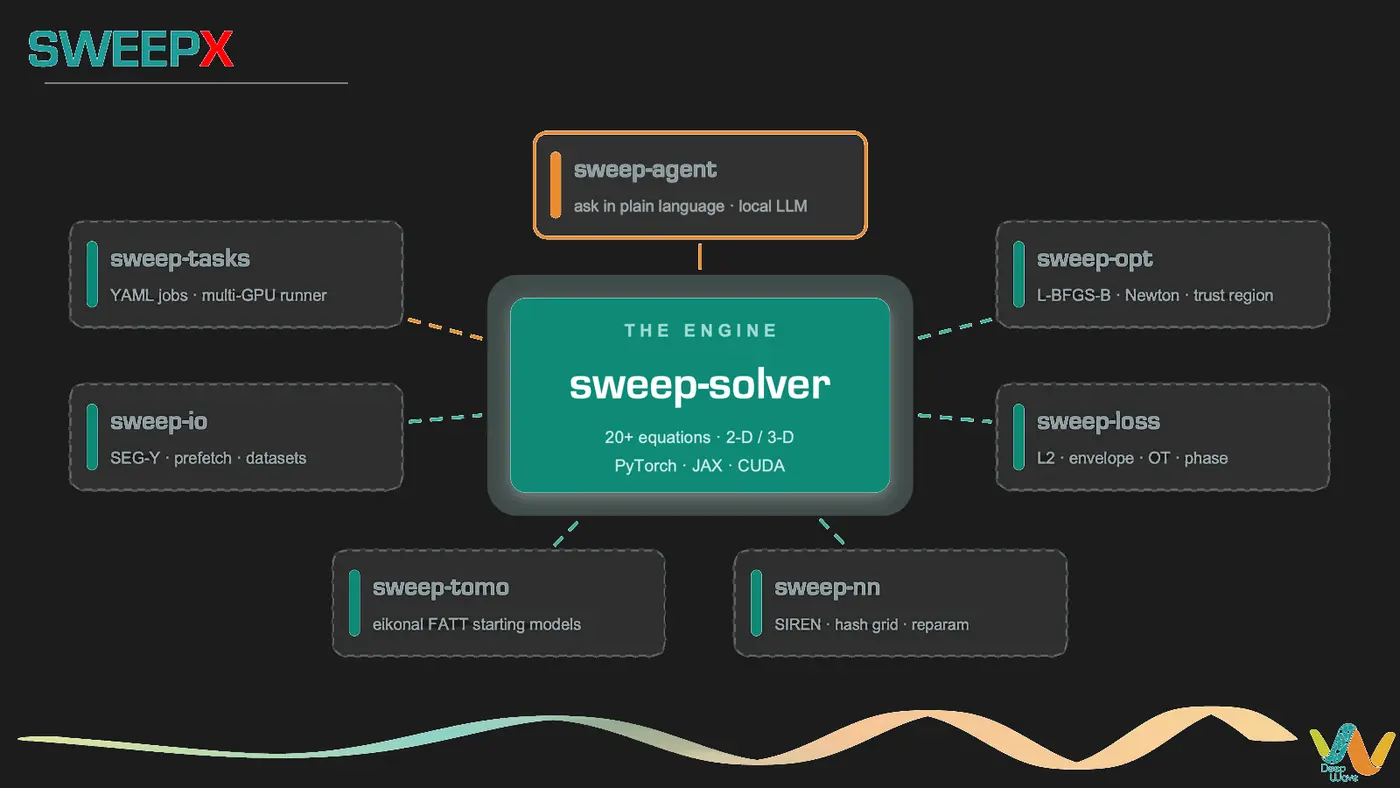
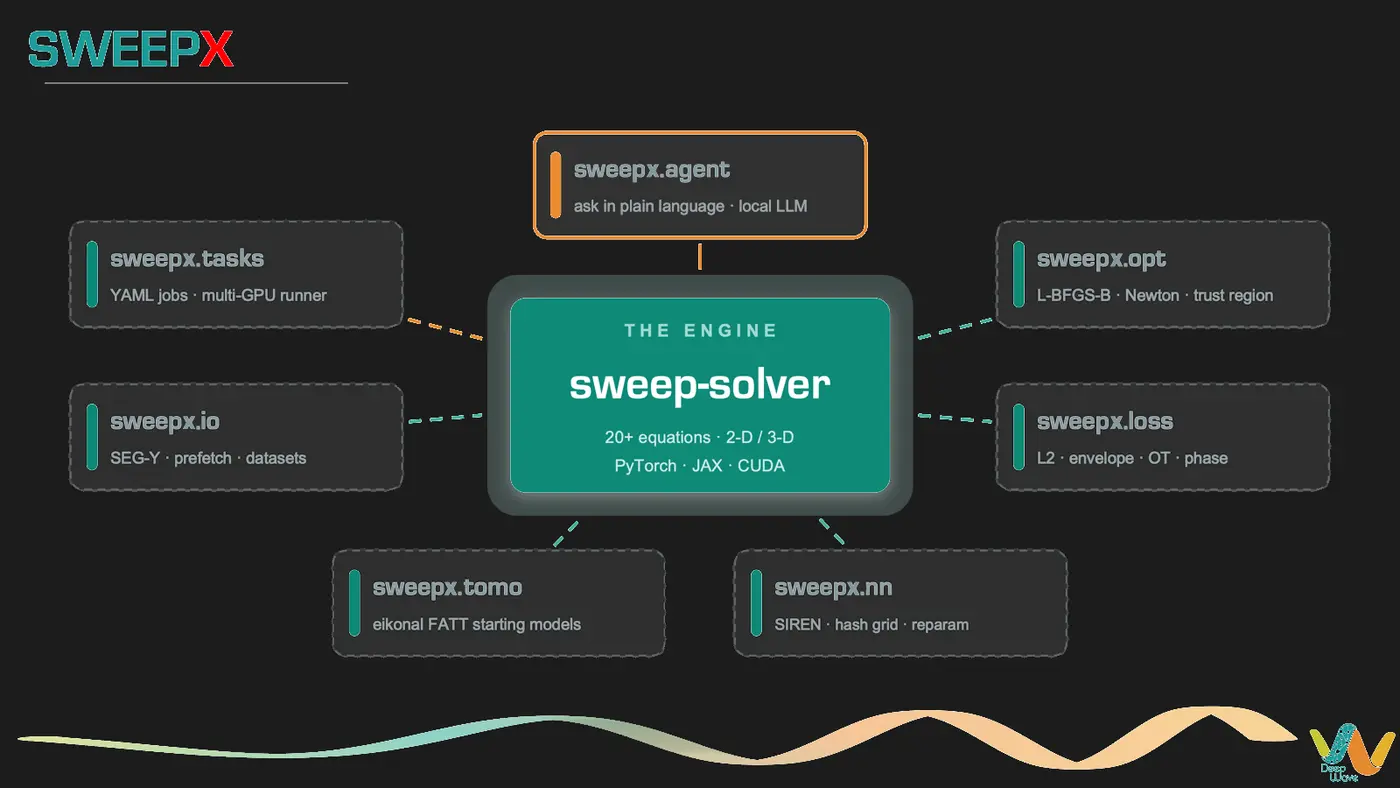
Deploying to gh-pages from @ GeophyAI/homepage@6cfdc5b65861595a4b841daa30e8b2ed8e82db26 🚀

diff --git a/research/index.html b/research/index.html
@@ -14,7 +14,7 @@
     initTheme();
   </script> </head> <body class="fixed-top-nav "> <header><style>
     .navbar-logo { height: 42px; width: auto; margin-right: 0.6rem; }
-  </style> <nav id="navbar" class="navbar navbar-light navbar-expand-sm fixed-top" role="navigation"> <div class="container"> <a class="navbar-brand title font-weight-lighter d-flex align-items-center" href="/"> <img src="/assets/img/sweep-logo-nav.svg" class="navbar-logo" alt="SWEEP"> <span> <span class="font-weight-bold">Shaowen</span> Wang </span> </a> <button class="navbar-toggler collapsed navbar-toggler-main" type="button" data-nav-toggle="navbarNav" aria-controls="navbarNav" aria-expanded="false" aria-label="Toggle navigation"> <span class="sr-only">Toggle navigation</span> <span class="icon-bar top-bar"></span> <span class="icon-bar middle-bar"></span> <span class="icon-bar bottom-bar"></span> </button> <div class="collapse navbar-collapse navbar-collapse-main" id="navbarNav"> <ul class="navbar-nav navbar-menu-list flex-nowrap"> <li class="nav-item "> <a class="nav-link" href="/">about </a> </li> <li class="nav-item active"> <a class="nav-link" href="/research/">research <span class="sr-only">(current)</span> </a> </li> <li class="nav-item "> <a class="nav-link" href="/publications/">publications </a> </li> <li class="nav-item "> <a class="nav-link" href="/cv/">cv </a> </li> <li class="nav-item "> <a class="nav-link" href="/gallery/">gallery </a> </li> <li class="nav-item"> <a class="nav-link" href="/zh/research/" hreflang="zh-CN" lang="zh-CN" onclick="try{localStorage.setItem('site-lang','zh')}catch(e){}">中文</a> </li> <li class="nav-item"> <button id="search-toggle" type="button" title="Search" aria-label="Open search"> <span class="nav-link">ctrl k <i class="fa-solid fa-magnifying-glass"></i></span> </button> </li> <li class="toggle-container"> <button id="light-toggle" type="button" title="Change theme" aria-label="Change color theme"> <i class="fa-half-sun-moon" id="light-toggle-system"></i> <i class="fa-solid fa-moon" id="light-toggle-dark"></i> <i class="fa-solid fa-sun" id="light-toggle-light"></i> </button> </li> </ul> </div> </div> </nav> <progress id="progress" value="0"> <div class="progress-container"> <span class="progress-bar"></span> </div> </progress> </header> <div class="container mt-5" role="main"> <div class="post"> <header class="post-header"> <h1 class="post-title">research</h1> <p class="post-description">Two directions I am working on right now.</p> </header> <article> <h3 id="implicit-full-waveform-inversion-imaging">Implicit full-waveform inversion imaging</h3> <div class="research-fig"> <figure> <picture> <source class="responsive-img-srcset" srcset="/assets/img/research/ifwim_field-480.webp 480w,/assets/img/research/ifwim_field-800.webp 800w,/assets/img/research/ifwim_field-1400.webp 1400w," type="image/webp" sizes="95vw"></source> <img src="/assets/img/research/ifwim_field.png" class="img-fluid rounded z-depth-1" width="100%" height="auto" alt="IFWIM field-data results: velocity and reflectivity" data-zoomable="" loading="eager" onerror="this.onerror=null; document.querySelectorAll('.responsive-img-srcset').forEach(function (n) { n.remove(); });"> </picture> <figcaption class="caption">Field-data example: inverted velocity (top) and the reflectivity components R<sub>z</sub> and R<sub>x</sub> (middle, bottom). Click to enlarge.</figcaption> </figure> </div> <p>Subsurface images are usually obtained in two steps: full-waveform inversion (FWI) for the velocity, then least-squares reverse time migration for the reflectivity. Implicit FWI imaging (IFWIM) represents the velocity and impedance models with the weights of a neural network and inverts them jointly with the vector-reflectivity acoustic wave equation; the reflectivity components then follow from the inverted impedance. Because the models are continuous functions, they can be resampled at any resolution, even on irregular grids.</p> <p><a href="https://doi.org/10.1093/gji/ggag277" rel="external nofollow noopener" target="_blank">Paper (GJI 2026)</a> · <a href="https://github.com/DeepWave-KAUST/ifwi-pub" rel="external nofollow noopener" target="_blank">Code</a></p> <h3 id="sweep-differentiable-wave-physics">SWEEP: differentiable wave physics</h3> <div class="sweepx-map"> <img src="/assets/img/research/sweepx_ecosystem.png" class="only-light rounded z-depth-1" alt="SWEEPX ecosystem: the sweep-solver engine and the packages built around it" loading="lazy"> <img src="/assets/img/research/sweepx_ecosystem_dark.png" class="only-dark rounded z-depth-1" alt="SWEEPX ecosystem: the sweep-solver engine and the packages built around it" loading="lazy"> <a class="sweepx-hit" href="https://sweepx.deepwave.group/" target="_blank" rel="noopener noreferrer" title="SWEEPX" aria-label="SWEEPX" style="left: 2.06%; top: 3.89%; width: 14.56%; height: 4.44%;"></a> <a class="sweepx-hit sweepx-dark" href="https://github.com/DeepWave-KAUST/sweep" target="_blank" rel="noopener noreferrer" title="sweep-solver" aria-label="sweep-solver" style="left: 36.5%; top: 37.89%; width: 27.0%; height: 24.44%;"><i class="fa-solid fa-arrow-up-right-from-square"></i></a> <a class="sweepx-hit" href="https://github.com/DeepWave-KAUST/sweep-agent" target="_blank" rel="noopener noreferrer" title="sweep-agent" aria-label="sweep-agent" style="left: 38.06%; top: 16.67%; width: 23.81%; height: 13.56%;"><i class="fa-solid fa-arrow-up-right-from-square"></i></a> </div> <style>
+  </style> <nav id="navbar" class="navbar navbar-light navbar-expand-sm fixed-top" role="navigation"> <div class="container"> <a class="navbar-brand title font-weight-lighter d-flex align-items-center" href="/"> <img src="/assets/img/sweep-logo-nav.svg" class="navbar-logo" alt="SWEEP"> <span> <span class="font-weight-bold">Shaowen</span> Wang </span> </a> <button class="navbar-toggler collapsed navbar-toggler-main" type="button" data-nav-toggle="navbarNav" aria-controls="navbarNav" aria-expanded="false" aria-label="Toggle navigation"> <span class="sr-only">Toggle navigation</span> <span class="icon-bar top-bar"></span> <span class="icon-bar middle-bar"></span> <span class="icon-bar bottom-bar"></span> </button> <div class="collapse navbar-collapse navbar-collapse-main" id="navbarNav"> <ul class="navbar-nav navbar-menu-list flex-nowrap"> <li class="nav-item "> <a class="nav-link" href="/">about </a> </li> <li class="nav-item active"> <a class="nav-link" href="/research/">research <span class="sr-only">(current)</span> </a> </li> <li class="nav-item "> <a class="nav-link" href="/publications/">publications </a> </li> <li class="nav-item "> <a class="nav-link" href="/cv/">cv </a> </li> <li class="nav-item "> <a class="nav-link" href="/gallery/">gallery </a> </li> <li class="nav-item"> <a class="nav-link" href="/zh/research/" hreflang="zh-CN" lang="zh-CN" onclick="try{localStorage.setItem('site-lang','zh')}catch(e){}">中文</a> </li> <li class="nav-item"> <button id="search-toggle" type="button" title="Search" aria-label="Open search"> <span class="nav-link">ctrl k <i class="fa-solid fa-magnifying-glass"></i></span> </button> </li> <li class="toggle-container"> <button id="light-toggle" type="button" title="Change theme" aria-label="Change color theme"> <i class="fa-half-sun-moon" id="light-toggle-system"></i> <i class="fa-solid fa-moon" id="light-toggle-dark"></i> <i class="fa-solid fa-sun" id="light-toggle-light"></i> </button> </li> </ul> </div> </div> </nav> <progress id="progress" value="0"> <div class="progress-container"> <span class="progress-bar"></span> </div> </progress> </header> <div class="container mt-5" role="main"> <div class="post"> <header class="post-header"> <h1 class="post-title">research</h1> <p class="post-description">Two directions I am working on right now.</p> </header> <article> <h3 id="implicit-full-waveform-inversion-imaging">Implicit full-waveform inversion imaging</h3> <div class="research-fig"> <figure> <picture> <source class="responsive-img-srcset" srcset="/assets/img/research/ifwim_field-480.webp 480w,/assets/img/research/ifwim_field-800.webp 800w,/assets/img/research/ifwim_field-1400.webp 1400w," type="image/webp" sizes="95vw"></source> <img src="/assets/img/research/ifwim_field.png" class="img-fluid rounded z-depth-1" width="100%" height="auto" alt="IFWIM field-data results: velocity and reflectivity" data-zoomable="" loading="eager" onerror="this.onerror=null; document.querySelectorAll('.responsive-img-srcset').forEach(function (n) { n.remove(); });"> </picture> <figcaption class="caption">Field-data example: inverted velocity (top) and the reflectivity components R<sub>z</sub> and R<sub>x</sub> (middle, bottom). Click to enlarge.</figcaption> </figure> </div> <p>Subsurface images are usually obtained in two steps: full-waveform inversion (FWI) for the velocity, then least-squares reverse time migration for the reflectivity. Implicit FWI imaging (IFWIM) represents the velocity and impedance models with the weights of a neural network and inverts them jointly with the vector-reflectivity acoustic wave equation; the reflectivity components then follow from the inverted impedance. Because the models are continuous functions, they can be resampled at any resolution, even on irregular grids.</p> <p><a href="https://doi.org/10.1093/gji/ggag277" rel="external nofollow noopener" target="_blank">Paper (GJI 2026)</a> · <a href="https://github.com/DeepWave-KAUST/ifwi-pub" rel="external nofollow noopener" target="_blank">Code</a></p> <h3 id="sweep-differentiable-wave-physics">SWEEP: differentiable wave physics</h3> <div class="sweepx-map"> <img src="/assets/img/research/sweepx_ecosystem.png" class="only-light rounded z-depth-1" alt="SWEEPX ecosystem: the sweep-solver engine and the packages built around it" loading="lazy"> <img src="/assets/img/research/sweepx_ecosystem_dark.png" class="only-dark rounded z-depth-1" alt="SWEEPX ecosystem: the sweep-solver engine and the packages built around it" loading="lazy"> <a class="sweepx-hit" href="https://sweepx.deepwave.group/" target="_blank" rel="noopener noreferrer" title="SWEEPX" aria-label="SWEEPX" style="left: 2.06%; top: 3.89%; width: 14.56%; height: 4.44%;"></a> <a class="sweepx-hit sweepx-dark" href="https://github.com/DeepWave-KAUST/sweep" target="_blank" rel="noopener noreferrer" title="sweep-solver" aria-label="sweep-solver" style="left: 36.5%; top: 37.89%; width: 27.0%; height: 24.44%;"><i class="fa-solid fa-arrow-up-right-from-square"></i></a> <a class="sweepx-hit" href="https://sweepx.deepwave.group/agent/" target="_blank" rel="noopener noreferrer" title="sweepx.agent" aria-label="sweepx.agent" style="left: 38.06%; top: 16.67%; width: 23.81%; height: 13.56%;"><i class="fa-solid fa-arrow-up-right-from-square"></i></a> <a class="sweepx-hit" href="https://sweepx.deepwave.group/tasks/" target="_blank" rel="noopener noreferrer" title="sweepx.tasks" aria-label="sweepx.tasks" style="left: 5.06%; top: 27.56%; width: 23.62%; height: 13.78%;"><i class="fa-solid fa-arrow-up-right-from-square"></i></a> <a class="sweepx-hit" href="https://sweepx.deepwave.group/io/" target="_blank" rel="noopener noreferrer" title="sweepx.io" aria-label="sweepx.io" style="left: 5.06%; top: 48.11%; width: 23.62%; height: 13.89%;"><i class="fa-solid fa-arrow-up-right-from-square"></i></a> <a class="sweepx-hit" href="https://sweepx.deepwave.group/opt/" target="_blank" rel="noopener noreferrer" title="sweepx.opt" aria-label="sweepx.opt" style="left: 71.25%; top: 27.56%; width: 23.62%; height: 13.78%;"><i class="fa-solid fa-arrow-up-right-from-square"></i></a> <a class="sweepx-hit" href="https://sweepx.deepwave.group/loss/" target="_blank" rel="noopener noreferrer" title="sweepx.loss" aria-label="sweepx.loss" style="left: 71.25%; top: 48.11%; width: 23.62%; height: 13.89%;"><i class="fa-solid fa-arrow-up-right-from-square"></i></a> <a class="sweepx-hit" href="https://sweepx.deepwave.group/nn/" target="_blank" rel="noopener noreferrer" title="sweepx.nn" aria-label="sweepx.nn" style="left: 52.5%; top: 69.22%; width: 23.62%; height: 13.89%;"><i class="fa-solid fa-arrow-up-right-from-square"></i></a> </div> <style>
   .sweepx-map { position: relative; margin: 0.5rem 0 1rem; }
   .sweepx-map img { width: 100%; height: auto; }   /* display comes from al-folio's .only-light / .only-dark */
   .sweepx-hit { position: absolute; border-radius: 0.6vw; transition: box-shadow 0.15s, background-color 0.15s; }
@@ -22,7 +22,7 @@
   .sweepx-hit i { position: absolute; top: 8%; right: 2.5%; font-size: clamp(8px, 1.1vw, 13px); color: #0e8a78; opacity: 0.75; }
   .sweepx-hit.sweepx-dark i { color: #fff; }
   .sweepx-hit:hover i, .sweepx-hit:focus i { opacity: 1; }
-</style> <p class="caption">Components marked <i class="fa-solid fa-arrow-up-right-from-square"></i> open their repositories.</p> <p>SWEEP (Seismic Wave Equation Exploration Platform) is a unified solver framework for differentiable wave physics. Its engine, sweep-solver, covers more than 20 wave equations in 2-D and 3-D with PyTorch, JAX and CUDA backends. Around it, the SWEEPX ecosystem adds packages for multi-GPU job running, seismic I/O, optimization, misfit functions, tomography starting models and neural reparameterization, plus an agent you can ask in plain language.</p> <p><a href="https://sweepx.deepwave.group/" rel="external nofollow noopener" target="_blank">Documentation</a> · <a href="https://arxiv.org/abs/2604.14189" rel="external nofollow noopener" target="_blank">Preprint</a> · <code class="language-plaintext highlighter-rouge">pip install sweepx</code></p> <style>
+</style> <p class="caption">Components marked <i class="fa-solid fa-arrow-up-right-from-square"></i> open their documentation or code.</p> <p>SWEEP (Seismic Wave Equation Exploration Platform) is a unified solver framework for differentiable wave physics. Its engine, sweep-solver, covers more than 20 wave equations in 2-D and 3-D with PyTorch, JAX and CUDA backends. Around it, the SWEEPX ecosystem adds packages for multi-GPU job running, seismic I/O, optimization, misfit functions, tomography starting models and neural reparameterization, plus an agent you can ask in plain language.</p> <p><a href="https://sweepx.deepwave.group/" rel="external nofollow noopener" target="_blank">Documentation</a> · <a href="https://arxiv.org/abs/2604.14189" rel="external nofollow noopener" target="_blank">Preprint</a> · <code class="language-plaintext highlighter-rouge">pip install sweepx</code></p> <style>
   .research-fig { max-width: 520px; margin: 0 auto; }
 </style> </article> </div> </div> <footer class="fixed-bottom" role="contentinfo"> <div class="container mt-0"> © Copyright 2026 Shaowen Wang. Powered by <a href="https://jekyllrb.com/" target="_blank" rel="external nofollow noopener">Jekyll</a> with <a href="https://github.com/alshedivat/al-folio" rel="external nofollow noopener" target="_blank">al-folio</a> theme. Hosted by <a href="https://pages.github.com/" target="_blank" rel="external nofollow noopener">GitHub Pages</a>. </div> </footer> <script>
   window.alFolio = {

diff --git a/zh/research/index.html b/zh/research/index.html
@@ -6,7 +6,7 @@
     initTheme();
   </script> </head> <body class="fixed-top-nav "> <header><style>
     .navbar-logo { height: 42px; width: auto; margin-right: 0.6rem; }
-  </style> <nav id="navbar" class="navbar navbar-light navbar-expand-sm fixed-top" role="navigation"> <div class="container"> <a class="navbar-brand title font-weight-lighter d-flex align-items-center" href="/zh/"> <img src="/assets/img/sweep-logo-nav.svg" class="navbar-logo" alt="SWEEP"> <span> <span class="font-weight-bold">王绍文</span> </span> </a> <button class="navbar-toggler collapsed navbar-toggler-main" type="button" data-nav-toggle="navbarNav" aria-controls="navbarNav" aria-expanded="false" aria-label="Toggle navigation"> <span class="sr-only">Toggle navigation</span> <span class="icon-bar top-bar"></span> <span class="icon-bar middle-bar"></span> <span class="icon-bar bottom-bar"></span> </button> <div class="collapse navbar-collapse navbar-collapse-main" id="navbarNav"> <ul class="navbar-nav navbar-menu-list flex-nowrap"> <li class="nav-item "> <a class="nav-link" href="/zh/">首页 </a> </li> <li class="nav-item active"> <a class="nav-link" href="/zh/research/">研究 <span class="sr-only">(current)</span> </a> </li> <li class="nav-item "> <a class="nav-link" href="/zh/publications/">论文 </a> </li> <li class="nav-item "> <a class="nav-link" href="/zh/cv/">简历 </a> </li> <li class="nav-item "> <a class="nav-link" href="/zh/gallery/">照片 </a> </li> <li class="nav-item"> <a class="nav-link" href="/research/" hreflang="en" lang="en" onclick="try{localStorage.setItem('site-lang','en')}catch(e){}">EN</a> </li> <li class="nav-item"> <button id="search-toggle" type="button" title="Search" aria-label="Open search"> <span class="nav-link">ctrl k <i class="fa-solid fa-magnifying-glass"></i></span> </button> </li> <li class="toggle-container"> <button id="light-toggle" type="button" title="Change theme" aria-label="Change color theme"> <i class="fa-half-sun-moon" id="light-toggle-system"></i> <i class="fa-solid fa-moon" id="light-toggle-dark"></i> <i class="fa-solid fa-sun" id="light-toggle-light"></i> </button> </li> </ul> </div> </div> </nav> <progress id="progress" value="0"> <div class="progress-container"> <span class="progress-bar"></span> </div> </progress> </header> <div class="container mt-5" role="main"> <div class="post"> <header class="post-header"> <h1 class="post-title">研究</h1> <p class="post-description">目前在做的两个方向。</p> </header> <article> <h3 id="隐式全波形反演成像">隐式全波形反演成像</h3> <div class="research-fig"> <figure> <picture> <source class="responsive-img-srcset" srcset="/assets/img/research/ifwim_field-480.webp 480w,/assets/img/research/ifwim_field-800.webp 800w,/assets/img/research/ifwim_field-1400.webp 1400w," type="image/webp" sizes="95vw"></source> <img src="/assets/img/research/ifwim_field.png" class="img-fluid rounded z-depth-1" width="100%" height="auto" alt="IFWIM 实际数据结果：速度与反射系数" data-zoomable="" loading="eager" onerror="this.onerror=null; document.querySelectorAll('.responsive-img-srcset').forEach(function (n) { n.remove(); });"> </picture> <figcaption class="caption">实际数据结果：反演得到的速度（上），以及反射系数分量 R<sub>z</sub>、R<sub>x</sub>（中、下）。点击图片可以放大。</figcaption> </figure> </div> <p>常规做法分两步：先用全波形反演（FWI）求速度，再用最小二乘逆时偏移求反射系数。隐式 FWI 成像（IFWIM）把速度和阻抗模型都用神经网络的权重来表示，结合矢量反射系数声波方程一起反演，反射系数再由反演出来的阻抗算出来。因为模型是连续函数，所以可以按任意分辨率重采样，不规则网格也能用。</p> <p><a href="https://doi.org/10.1093/gji/ggag277" rel="external nofollow noopener" target="_blank">论文（GJI 2026）</a> · <a href="https://github.com/DeepWave-KAUST/ifwi-pub" rel="external nofollow noopener" target="_blank">代码</a></p> <h3 id="sweep可微分的波动物理">SWEEP：可微分的波动物理</h3> <div class="sweepx-map"> <img src="/assets/img/research/sweepx_ecosystem.png" class="only-light rounded z-depth-1" alt="SWEEPX 生态：核心引擎 sweep-solver 及其周边的各个包" loading="lazy"> <img src="/assets/img/research/sweepx_ecosystem_dark.png" class="only-dark rounded z-depth-1" alt="SWEEPX 生态：核心引擎 sweep-solver 及其周边的各个包" loading="lazy"> <a class="sweepx-hit" href="https://sweepx.deepwave.group/" target="_blank" rel="noopener noreferrer" title="SWEEPX" aria-label="SWEEPX" style="left: 2.06%; top: 3.89%; width: 14.56%; height: 4.44%;"></a> <a class="sweepx-hit sweepx-dark" href="https://github.com/DeepWave-KAUST/sweep" target="_blank" rel="noopener noreferrer" title="sweep-solver" aria-label="sweep-solver" style="left: 36.5%; top: 37.89%; width: 27.0%; height: 24.44%;"><i class="fa-solid fa-arrow-up-right-from-square"></i></a> <a class="sweepx-hit" href="https://github.com/DeepWave-KAUST/sweep-agent" target="_blank" rel="noopener noreferrer" title="sweep-agent" aria-label="sweep-agent" style="left: 38.06%; top: 16.67%; width: 23.81%; height: 13.56%;"><i class="fa-solid fa-arrow-up-right-from-square"></i></a> </div> <style>
+  </style> <nav id="navbar" class="navbar navbar-light navbar-expand-sm fixed-top" role="navigation"> <div class="container"> <a class="navbar-brand title font-weight-lighter d-flex align-items-center" href="/zh/"> <img src="/assets/img/sweep-logo-nav.svg" class="navbar-logo" alt="SWEEP"> <span> <span class="font-weight-bold">王绍文</span> </span> </a> <button class="navbar-toggler collapsed navbar-toggler-main" type="button" data-nav-toggle="navbarNav" aria-controls="navbarNav" aria-expanded="false" aria-label="Toggle navigation"> <span class="sr-only">Toggle navigation</span> <span class="icon-bar top-bar"></span> <span class="icon-bar middle-bar"></span> <span class="icon-bar bottom-bar"></span> </button> <div class="collapse navbar-collapse navbar-collapse-main" id="navbarNav"> <ul class="navbar-nav navbar-menu-list flex-nowrap"> <li class="nav-item "> <a class="nav-link" href="/zh/">首页 </a> </li> <li class="nav-item active"> <a class="nav-link" href="/zh/research/">研究 <span class="sr-only">(current)</span> </a> </li> <li class="nav-item "> <a class="nav-link" href="/zh/publications/">论文 </a> </li> <li class="nav-item "> <a class="nav-link" href="/zh/cv/">简历 </a> </li> <li class="nav-item "> <a class="nav-link" href="/zh/gallery/">照片 </a> </li> <li class="nav-item"> <a class="nav-link" href="/research/" hreflang="en" lang="en" onclick="try{localStorage.setItem('site-lang','en')}catch(e){}">EN</a> </li> <li class="nav-item"> <button id="search-toggle" type="button" title="Search" aria-label="Open search"> <span class="nav-link">ctrl k <i class="fa-solid fa-magnifying-glass"></i></span> </button> </li> <li class="toggle-container"> <button id="light-toggle" type="button" title="Change theme" aria-label="Change color theme"> <i class="fa-half-sun-moon" id="light-toggle-system"></i> <i class="fa-solid fa-moon" id="light-toggle-dark"></i> <i class="fa-solid fa-sun" id="light-toggle-light"></i> </button> </li> </ul> </div> </div> </nav> <progress id="progress" value="0"> <div class="progress-container"> <span class="progress-bar"></span> </div> </progress> </header> <div class="container mt-5" role="main"> <div class="post"> <header class="post-header"> <h1 class="post-title">研究</h1> <p class="post-description">目前在做的两个方向。</p> </header> <article> <h3 id="隐式全波形反演成像">隐式全波形反演成像</h3> <div class="research-fig"> <figure> <picture> <source class="responsive-img-srcset" srcset="/assets/img/research/ifwim_field-480.webp 480w,/assets/img/research/ifwim_field-800.webp 800w,/assets/img/research/ifwim_field-1400.webp 1400w," type="image/webp" sizes="95vw"></source> <img src="/assets/img/research/ifwim_field.png" class="img-fluid rounded z-depth-1" width="100%" height="auto" alt="IFWIM 实际数据结果：速度与反射系数" data-zoomable="" loading="eager" onerror="this.onerror=null; document.querySelectorAll('.responsive-img-srcset').forEach(function (n) { n.remove(); });"> </picture> <figcaption class="caption">实际数据结果：反演得到的速度（上），以及反射系数分量 R<sub>z</sub>、R<sub>x</sub>（中、下）。点击图片可以放大。</figcaption> </figure> </div> <p>常规做法分两步：先用全波形反演（FWI）求速度，再用最小二乘逆时偏移求反射系数。隐式 FWI 成像（IFWIM）把速度和阻抗模型都用神经网络的权重来表示，结合矢量反射系数声波方程一起反演，反射系数再由反演出来的阻抗算出来。因为模型是连续函数，所以可以按任意分辨率重采样，不规则网格也能用。</p> <p><a href="https://doi.org/10.1093/gji/ggag277" rel="external nofollow noopener" target="_blank">论文（GJI 2026）</a> · <a href="https://github.com/DeepWave-KAUST/ifwi-pub" rel="external nofollow noopener" target="_blank">代码</a></p> <h3 id="sweep可微分的波动物理">SWEEP：可微分的波动物理</h3> <div class="sweepx-map"> <img src="/assets/img/research/sweepx_ecosystem.png" class="only-light rounded z-depth-1" alt="SWEEPX 生态：核心引擎 sweep-solver 及其周边的各个包" loading="lazy"> <img src="/assets/img/research/sweepx_ecosystem_dark.png" class="only-dark rounded z-depth-1" alt="SWEEPX 生态：核心引擎 sweep-solver 及其周边的各个包" loading="lazy"> <a class="sweepx-hit" href="https://sweepx.deepwave.group/" target="_blank" rel="noopener noreferrer" title="SWEEPX" aria-label="SWEEPX" style="left: 2.06%; top: 3.89%; width: 14.56%; height: 4.44%;"></a> <a class="sweepx-hit sweepx-dark" href="https://github.com/DeepWave-KAUST/sweep" target="_blank" rel="noopener noreferrer" title="sweep-solver" aria-label="sweep-solver" style="left: 36.5%; top: 37.89%; width: 27.0%; height: 24.44%;"><i class="fa-solid fa-arrow-up-right-from-square"></i></a> <a class="sweepx-hit" href="https://sweepx.deepwave.group/agent/" target="_blank" rel="noopener noreferrer" title="sweepx.agent" aria-label="sweepx.agent" style="left: 38.06%; top: 16.67%; width: 23.81%; height: 13.56%;"><i class="fa-solid fa-arrow-up-right-from-square"></i></a> <a class="sweepx-hit" href="https://sweepx.deepwave.group/tasks/" target="_blank" rel="noopener noreferrer" title="sweepx.tasks" aria-label="sweepx.tasks" style="left: 5.06%; top: 27.56%; width: 23.62%; height: 13.78%;"><i class="fa-solid fa-arrow-up-right-from-square"></i></a> <a class="sweepx-hit" href="https://sweepx.deepwave.group/io/" target="_blank" rel="noopener noreferrer" title="sweepx.io" aria-label="sweepx.io" style="left: 5.06%; top: 48.11%; width: 23.62%; height: 13.89%;"><i class="fa-solid fa-arrow-up-right-from-square"></i></a> <a class="sweepx-hit" href="https://sweepx.deepwave.group/opt/" target="_blank" rel="noopener noreferrer" title="sweepx.opt" aria-label="sweepx.opt" style="left: 71.25%; top: 27.56%; width: 23.62%; height: 13.78%;"><i class="fa-solid fa-arrow-up-right-from-square"></i></a> <a class="sweepx-hit" href="https://sweepx.deepwave.group/loss/" target="_blank" rel="noopener noreferrer" title="sweepx.loss" aria-label="sweepx.loss" style="left: 71.25%; top: 48.11%; width: 23.62%; height: 13.89%;"><i class="fa-solid fa-arrow-up-right-from-square"></i></a> <a class="sweepx-hit" href="https://sweepx.deepwave.group/nn/" target="_blank" rel="noopener noreferrer" title="sweepx.nn" aria-label="sweepx.nn" style="left: 52.5%; top: 69.22%; width: 23.62%; height: 13.89%;"><i class="fa-solid fa-arrow-up-right-from-square"></i></a> </div> <style>
   .sweepx-map { position: relative; margin: 0.5rem 0 1rem; }
   .sweepx-map img { width: 100%; height: auto; }   /* display comes from al-folio's .only-light / .only-dark */
   .sweepx-hit { position: absolute; border-radius: 0.6vw; transition: box-shadow 0.15s, background-color 0.15s; }
@@ -14,7 +14,7 @@
   .sweepx-hit i { position: absolute; top: 8%; right: 2.5%; font-size: clamp(8px, 1.1vw, 13px); color: #0e8a78; opacity: 0.75; }
   .sweepx-hit.sweepx-dark i { color: #fff; }
   .sweepx-hit:hover i, .sweepx-hit:focus i { opacity: 1; }
-</style> <p class="caption">带 <i class="fa-solid fa-arrow-up-right-from-square"></i> 的组件可以点击，跳到对应的代码仓库。</p> <p>SWEEP（Seismic Wave Equation Exploration Platform）是一个统一的可微分波动方程求解框架。核心引擎 sweep-solver 支持 20 多种波动方程，2D、3D 都能算，后端有 PyTorch、JAX 和 CUDA。围绕它的 SWEEPX 生态还有多卡任务调度、地震数据读写、优化器、目标函数、层析初始模型、神经网络重参数化这些包，另外还有一个能用大白话提问的助手。</p> <p><a href="https://sweepx.deepwave.group/" rel="external nofollow noopener" target="_blank">文档</a> · <a href="https://arxiv.org/abs/2604.14189" rel="external nofollow noopener" target="_blank">预印本</a> · <code class="language-plaintext highlighter-rouge">pip install sweepx</code></p> <style>
+</style> <p class="caption">带 <i class="fa-solid fa-arrow-up-right-from-square"></i> 的组件可以点击，打开对应的文档或代码仓库。</p> <p>SWEEP（Seismic Wave Equation Exploration Platform）是一个统一的可微分波动方程求解框架。核心引擎 sweep-solver 支持 20 多种波动方程，2D、3D 都能算，后端有 PyTorch、JAX 和 CUDA。围绕它的 SWEEPX 生态还有多卡任务调度、地震数据读写、优化器、目标函数、层析初始模型、神经网络重参数化这些包，另外还有一个能用大白话提问的助手。</p> <p><a href="https://sweepx.deepwave.group/" rel="external nofollow noopener" target="_blank">文档</a> · <a href="https://arxiv.org/abs/2604.14189" rel="external nofollow noopener" target="_blank">预印本</a> · <code class="language-plaintext highlighter-rouge">pip install sweepx</code></p> <style>
   .research-fig { max-width: 520px; margin: 0 auto; }
 </style> </article> </div> </div> <footer class="fixed-bottom" role="contentinfo"> <div class="container mt-0"> © 2026 王绍文。网站用 <a href="https://jekyllrb.com/" target="_blank" rel="external nofollow noopener">Jekyll</a> 和 <a href="https://github.com/alshedivat/al-folio" rel="external nofollow noopener" target="_blank">al-folio</a> 主题搭建，托管在 <a href="https://pages.github.com/" target="_blank" rel="external nofollow noopener">GitHub Pages</a> 上。 </div> </footer> <script>
   window.alFolio = {

diff --git a/assets/jupyter/blog.ipynb.html b/assets/jupyter/blog.ipynb.html
@@ -1,4 +1,4 @@
-<!DOCTYPE html> <html lang="en"> <head><meta charset="utf-8"/> <meta content="width=device-width, initial-scale=1.0" name="viewport"/> <title>jekyll-jupyter-notebook20261005-3463-y5z5ej</title><script src="https://cdnjs.cloudflare.com/ajax/libs/require.js/2.1.10/require.min.js"></script> <style type="text/css">
+<!DOCTYPE html> <html lang="en"> <head><meta charset="utf-8"/> <meta content="width=device-width, initial-scale=1.0" name="viewport"/> <title>jekyll-jupyter-notebook20261018-4178-c2lvfk</title><script src="https://cdnjs.cloudflare.com/ajax/libs/require.js/2.1.10/require.min.js"></script> <style type="text/css">
     pre { line-height: 125%; }
 td.linenos .normal { color: inherit; background-color: transparent; padding-left: 5px; padding-right: 5px; }
 span.linenos { color: inherit; background-color: transparent; padding-left: 5px; padding-right: 5px; }

diff --git a/assets/css/jekyll-pygments-themes-native.css b/assets/css/jekyll-pygments-themes-native.css
@@ -83,7 +83,11 @@
 } /* Name.Exception */ /* Name.Function */
 .highlight .nl {
   color: #d0d0d0;
-} /* Name.Label */ /* Name.Namespace */ /* Name.Other */
+} /* Name.Label */
+.highlight .nn {
+  color: #447fcf;
+  text-decoration: underline;
+} /* Name.Namespace */ /* Name.Other */
 .highlight .py {
   color: #d0d0d0;
 } /* Name.Property */

diff --git a/assets/css/jekyll-pygments-themes-github.css b/assets/css/jekyll-pygments-themes-github.css
@@ -71,7 +71,10 @@
 .highlight .nl {
   color: #990000;
   font-weight: bold;
-} /* Name.Label */ /* Name.Namespace */
+} /* Name.Label */
+.highlight .nn {
+  color: #555555;
+} /* Name.Namespace */
 .highlight .nt {
   color: #000080;
 } /* Name.Tag */ /* Name.Variable */ /* Operator.Word */
